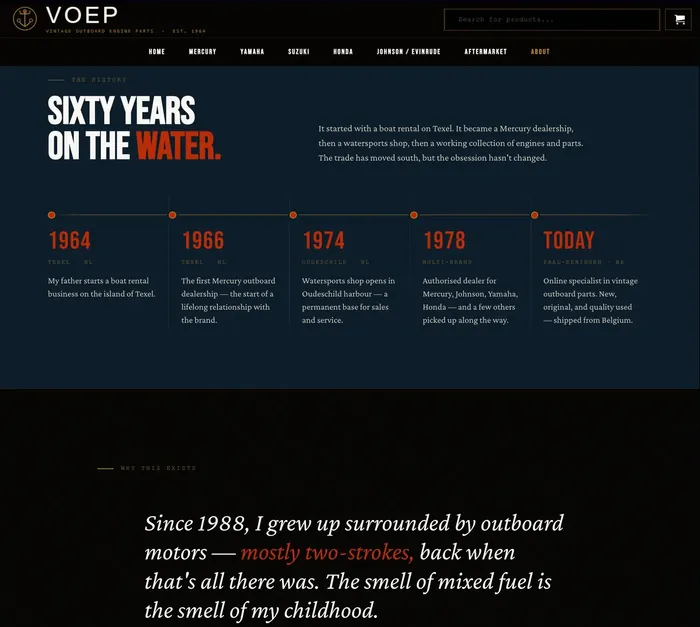
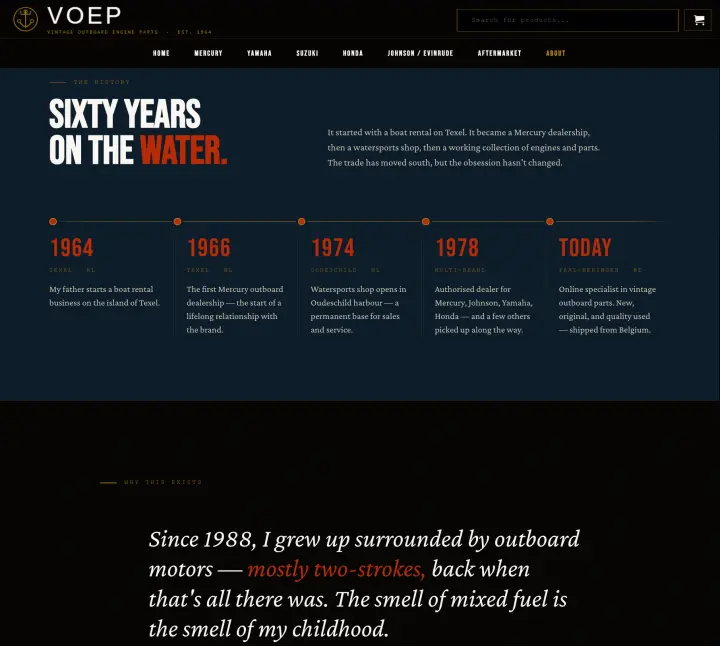
still 92

diff --git a/contact.html b/contact.html
@@ -3623,11 +3623,9 @@ function VOEPMock() {
   }, "vintageoutboardengineparts.com \u2197")), /*#__PURE__*/React.createElement("img", {
     className: "browser-shot",
     src: "voep-screenshot.webp",
-    srcSet: "voep-screenshot-mobile.webp 480w, voep-screenshot.webp 700w",
-    sizes: "(max-width: 768px) 90vw, 50vw",
     alt: "Vintage Outboard Parts \u2014 homepage screenshot",
-    width: "700",
-    height: "627",
+    width: "720",
+    height: "646",
     loading: "lazy",
     decoding: "async"
   }));

diff --git a/index.html b/index.html
@@ -3288,11 +3288,9 @@ function VOEPMock() {
   }, "vintageoutboardengineparts.com \u2197")), /*#__PURE__*/React.createElement("img", {
     className: "browser-shot",
     src: "voep-screenshot.webp",
-    srcSet: "voep-screenshot-mobile.webp 480w, voep-screenshot.webp 700w",
-    sizes: "(max-width: 768px) 90vw, 50vw",
     alt: "Vintage Outboard Parts \u2014 homepage screenshot",
-    width: "700",
-    height: "627",
+    width: "720",
+    height: "646",
     loading: "lazy",
     decoding: "async"
   }));
